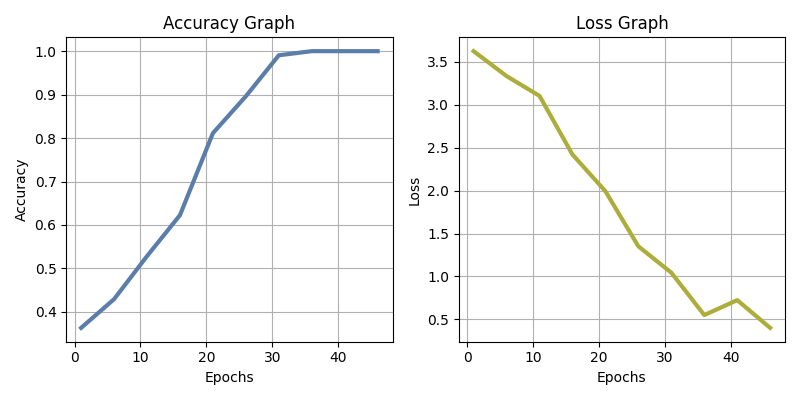
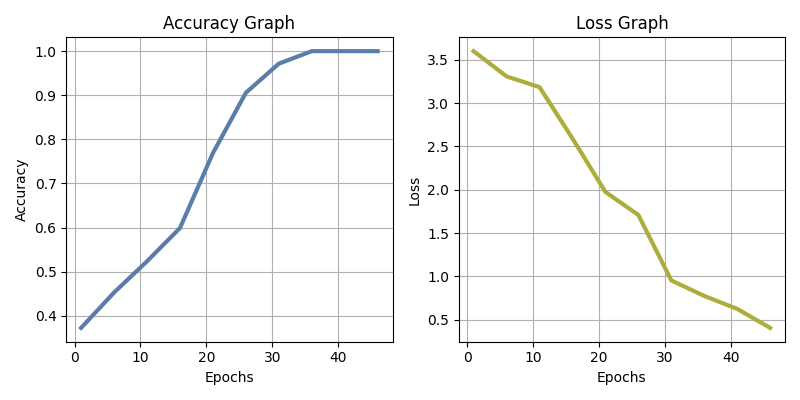
up

diff --git a/src/lstm_auto_complete.py b/src/lstm_auto_complete.py
@@ -26,7 +26,7 @@ seed = 42
 torch.manual_seed(seed)
 np.random.seed(seed)
 
-data_path = Path('../data/The_critique_of_pure_reason_short.txt')
+data_path = Path('../data/The_critique_of_pure_reason_full.txt')
 
 def load_text():
     with open(data_path, 'r') as file:
@@ -178,10 +178,35 @@ def get_params():
     parser.add_argument('--checkpoint', default='false', choices=['true', 'false'], help='Run from latest checkpoint')
     parser.add_argument('--checkpoint_path', default='../checkpoints', help='Define checkpoint path')
     parser.add_argument('--lr', default=0.0009, help='Learning rate: Hyperparameter')
-    parser.add_argument('--epochs', default=10, help='Epochs: Hyperparameter')
+    parser.add_argument('--epochs', default=50, help='Epochs: Hyperparameter')
     parser.add_argument('--hidden_dimensions', default=200, help='Hidden dimensions: Hyperparameter')
     return parser.parse_args()
 
+
+def text_to_numerical_sequence_test(tokenized_text):
+    tokens_list = []
+    for token in tokenized_text:
+        num_token = features_vocab[token] if token in features_vocab.get_itos() else features_vocab['<oov>']
+        tokens_list.append(num_token)
+    return tokens_list
+
+def use_model(input_list):
+    model.eval()
+    output_list = []
+    for data in input_list:
+        sentence = data[0]
+        num_words = data[1]
+        for i in range(num_words):
+            output_of_model = []
+            tokenized_input_test = tokenizer(sentence)
+            tokenized_sequence_input_test = text_to_numerical_sequence_test(tokenized_input_test)
+            padded_tokenized_sequence_input_test = F.pad(torch.tensor(tokenized_sequence_input_test),
+                                                         (longest_sequence_feature - len(tokenized_sequence_input_test)-1, 0),
+                                                         value=0)
+            output_test_walking = torch.argmax(model(padded_tokenized_sequence_input_test.unsqueeze(0)))
+            sentence = sentence + ' ' + target_vocab.lookup_token(output_test_walking.item())
+        output_list.append(sentence)
+    return output_list
 
 class nextWord_LSTM(nn.Module):
     def __init__(self, features_vocab_total_words, target_vocab_total_words, embedding_dim, hidden_dim):
@@ -287,7 +312,7 @@ if __name__ == '__main__':
     optimizer = optim.Adam(model.parameters(), lr=args.lr)
 
     # load latest checkpoint if desired
-    if(args.checkpoint):
+    if(args.checkpoint == 'true'):
         checkpoint_path = find_latest_checkpoint_path(args.checkpoint_path)
         print(f"Loading latest checkpoint: {checkpoint_path}")
         checkpoint = torch.load(checkpoint_path)
@@ -306,7 +331,7 @@ if __name__ == '__main__':
     all_losses = []
 
 
-    for epoch in range(start_epoch, args.epoch):
+    for epoch in range(start_epoch, args.epochs):
         model.train()
         for batch_X, batch_y in train_loader:
             batch_X, batch_y = batch_X.to(device), batch_y.to(device)
@@ -354,3 +379,13 @@ if __name__ == '__main__':
 
     plt.tight_layout()
     plt.savefig("../out/Accuracy_Loss_Graph.png")
+
+
+    accuracy = calculate_topk_accuracy(model, test_loader)
+    print(f'Test K-Accuracy: {accuracy * 100:.2f}%')
+
+    #input_test = [['Daniel is',5],['stand', 5], ['deep learning is', 5], ['data cleaning', 4], ['6 ways', 4], ['you did a', 2]]
+    input_test = [['Daniel is', 9]]
+
+    outputs_model = use_model(input_test)
+    print(outputs_model)
